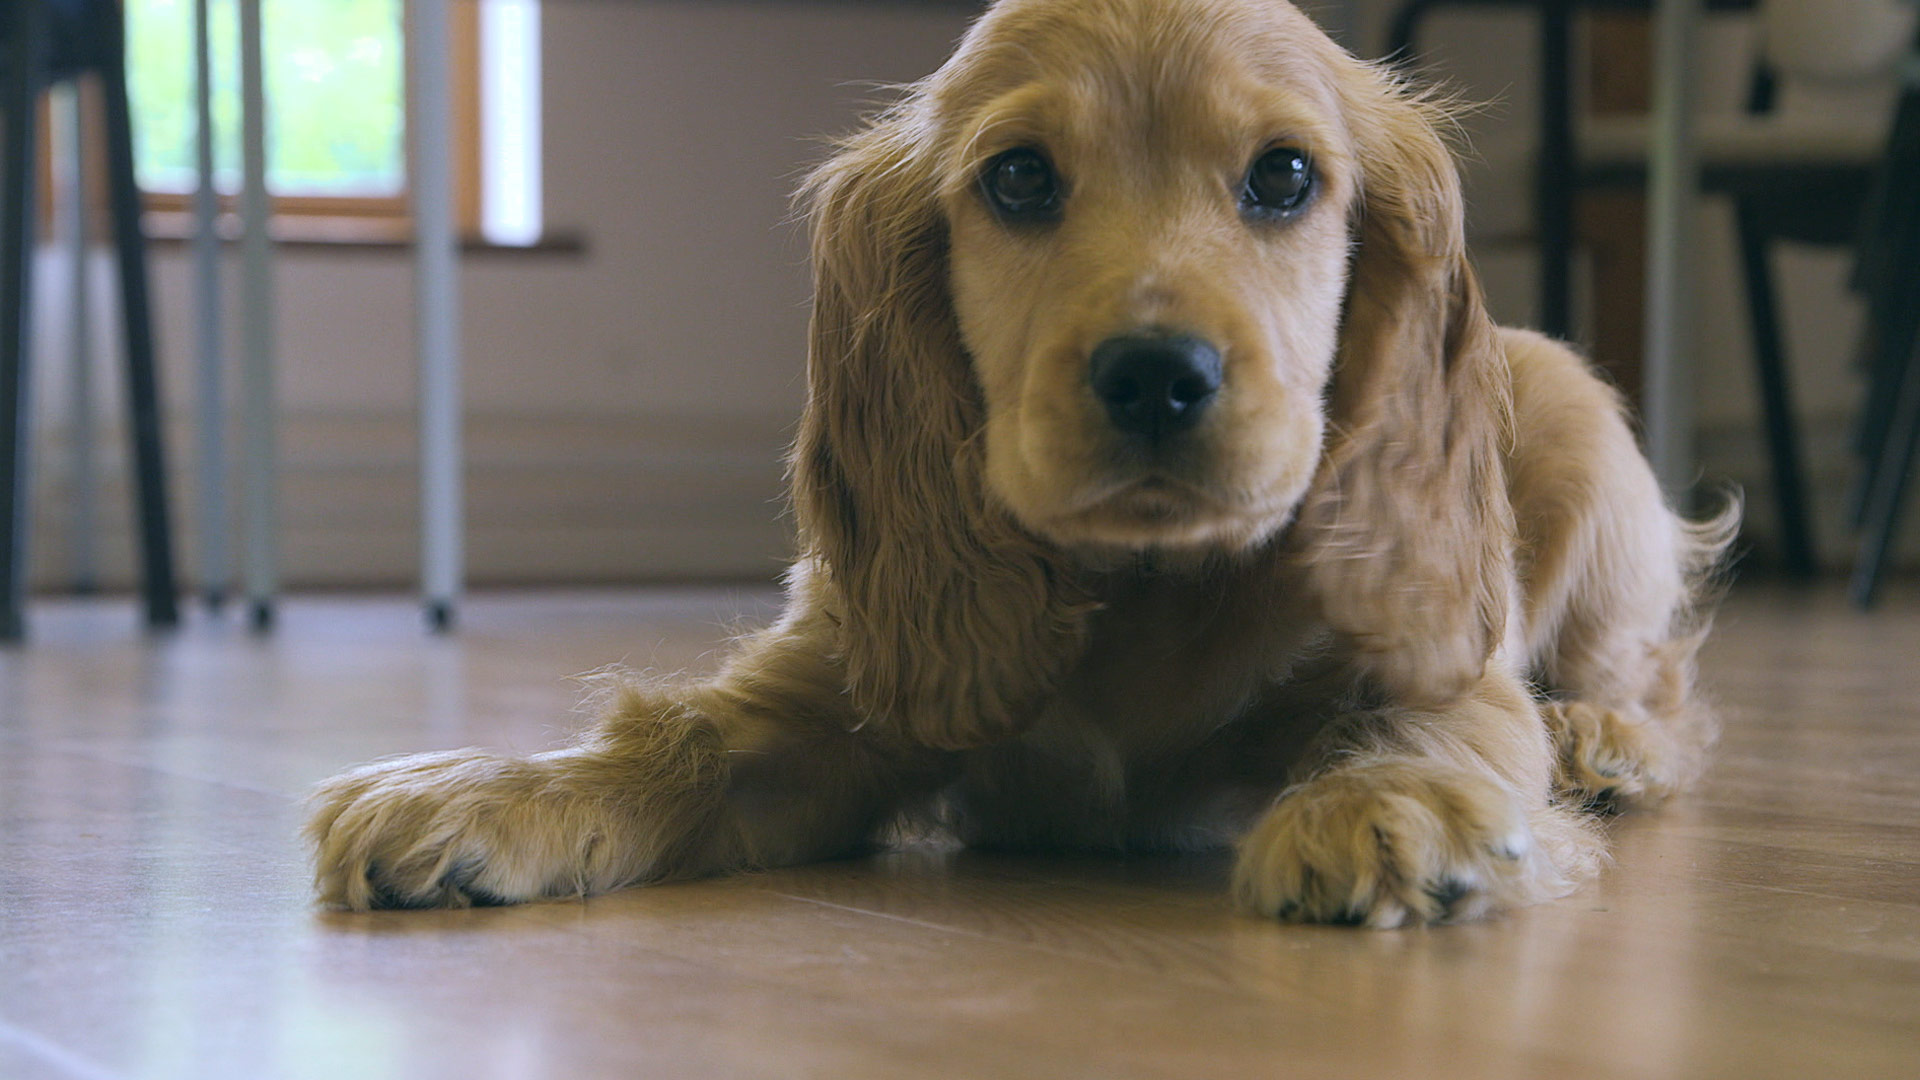
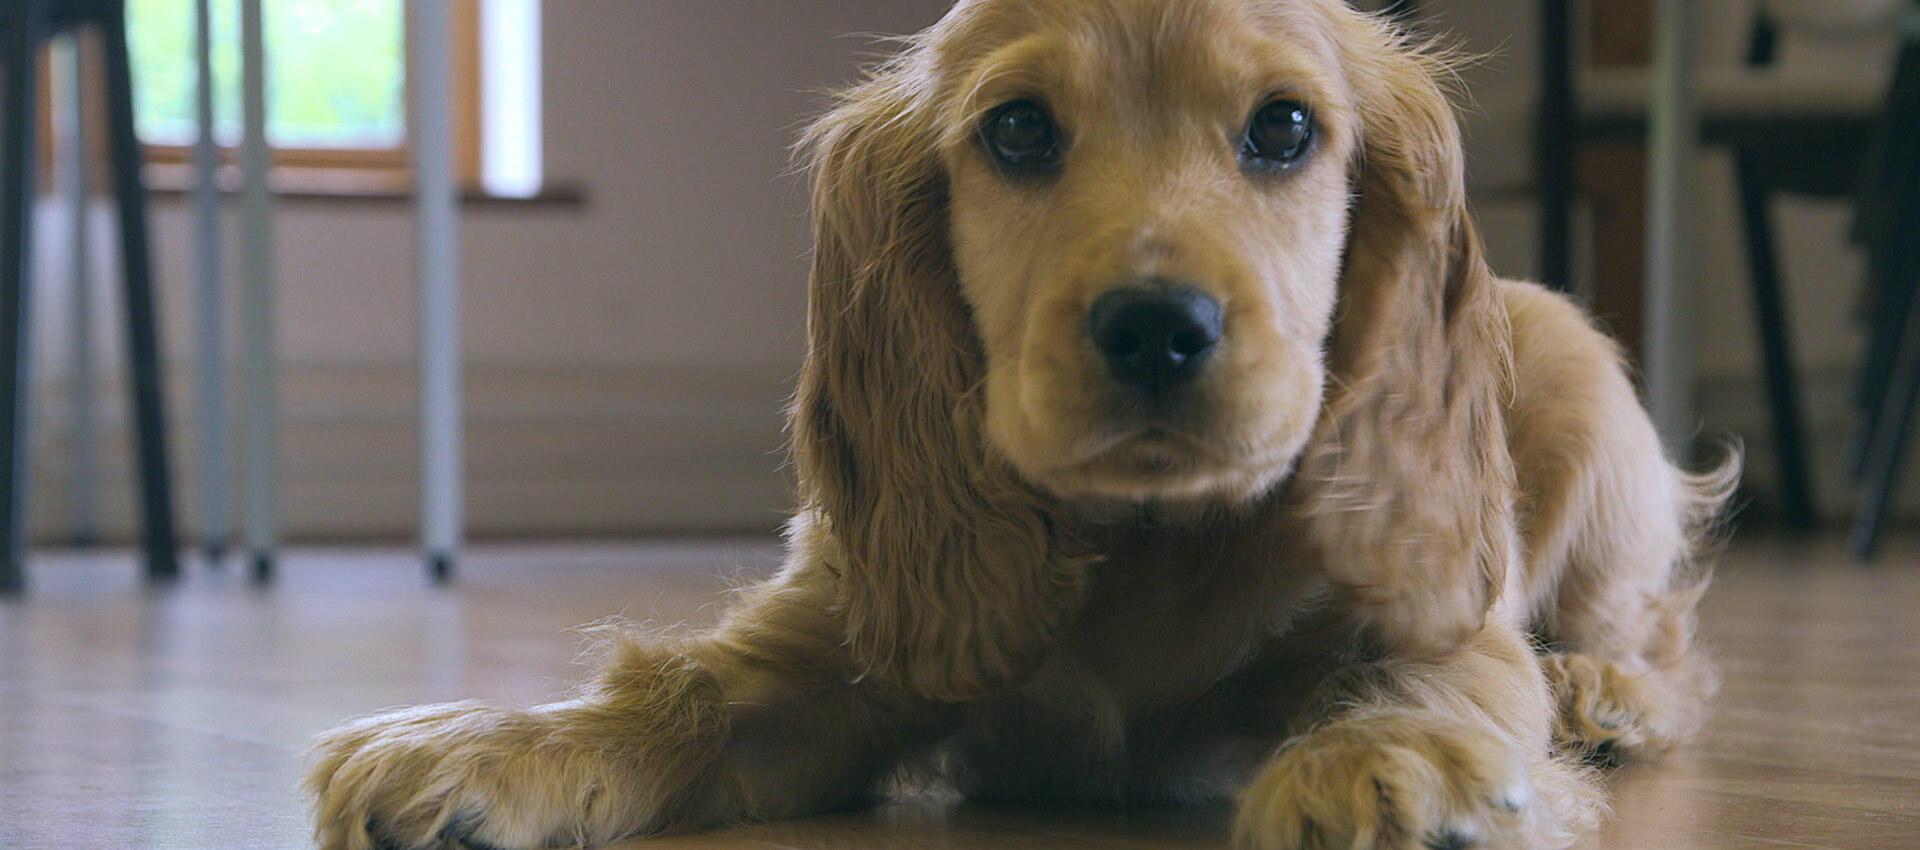
Edit font size and color [Day10]

diff --git a/Week-2/Day10/oipa-adopt/src/assets/styles/Content.css b/Week-2/Day10/oipa-adopt/src/assets/styles/Content.css
@@ -14,29 +14,38 @@
 
 .carousel-item > img {
     width: 100%;
-    height: 900px;
+    /* height: 900px; */
+    height: auto;
 }
 
 /* Profile */
 .intro {
+    color: #B3A593;
     font-family: 'SimSun-ExtB';
+    font-size: 60px;
     text-align: center;
     margin-top: 30px;
     margin-bottom: 30px;
+    padding-top: 50px;
 }
 .about {
+    color: #FFFFFF;
     font-family: 'SimSun-ExtB';
-    font-size: 30px;
-    text-align: center;
+    font-size: 40px;
+    text-align: left;
+    padding-top: 30px;
+    padding-left: 40px;
+    padding-left: 40px;
     padding-bottom: 15px;
 }
 .description {
+    color: #FFFFFF;
     font-family: 'SimSun-ExtB';
-    font-size: 20px;
-    text-align: justify;
-    letter-spacing: 0.1em;
-    padding-left: 20px;
-    padding-right: 20px;
+    font-size: 30px;
+    text-align: left;
+    padding-top: 40px;
+    padding-left: 40px;
+    padding-right: 40px;
 }
 
 

diff --git a/Week-2/Day10/oipa-adopt/src/components/Header.js b/Week-2/Day10/oipa-adopt/src/components/Header.js
@@ -25,11 +25,7 @@ const Header = (props) => {
                     className="mr-auto"
                 >
                     <h2
-                        style={{
-                            color: 'black',
-                            fontStyle: "italic",
-                            marginLeft: "10px"
-                        }}
+                        className="oipa"
                     >
                         OIPA
                     </h2>
@@ -42,7 +38,6 @@ const Header = (props) => {
                     <Nav
                         className="ml-auto"
                         navbar
-                        // style={{marginRight: "10px"}}
                     >
                         <NavItem>
                             <NavLink

diff --git a/Week-2/Day10/oipa-adopt/src/assets/styles/Header.css b/Week-2/Day10/oipa-adopt/src/assets/styles/Header.css
@@ -7,16 +7,24 @@
 
 .navigation {
     font-family: 'SimSun-ExtB';
-    background-color: lightcoral;
+    background-color: #B3A593;
     position: fixed;
     z-index: 100;
     width: 100%;
     box-shadow: 0px 4px 2px -2px rgba(0, 0, 0, 0.3);
+    height: 80px;
 }
-
-.main-link {
+.oipa {
+    /* color: #707070; */
     color: black;
+    font-size: 60px;
+    text-shadow: 0px 3px 6px #FFFFFF29;
+    margin-left: 50px;
+}
+.main-link {
+    color: black!important;
     font-family: 'SimSun-ExtB';
     font-weight: 500;
-    font-size: 20px;
+    font-size: 30px;
+    margin-right: 50px;
 }

diff --git a/Week-2/Day10/oipa-adopt/src/components/Profile.js b/Week-2/Day10/oipa-adopt/src/components/Profile.js
@@ -10,11 +10,11 @@ function Profile() {
     return (
         <div>
             <Container
-                // className="themed-container"
-                // fluid={true}
+                className="themed-container"
+                fluid={true}
                 style={{
-                    height: "750px",
-                    // backgroundColor: "black",
+                    height: "975px",
+                    backgroundColor: "black",
                     paddingTop: "30px",
                     marginTop: "-30px"
                 }}

diff --git a/Week-2/Day10/oipa-adopt/src/components/Introduction.js b/Week-2/Day10/oipa-adopt/src/components/Introduction.js
@@ -8,7 +8,7 @@ import {
 } from 'reactstrap';
 import '../assets/styles/Content.css';
 import Slider1 from '../assets/images/animal.jpeg';
-import Slider2 from '../assets/images/adoption.jpeg';
+import Slider2 from '../assets/images/jumbotron.jpeg';
 import Slider3 from '../assets/images/welfare.jpeg';
 
 
